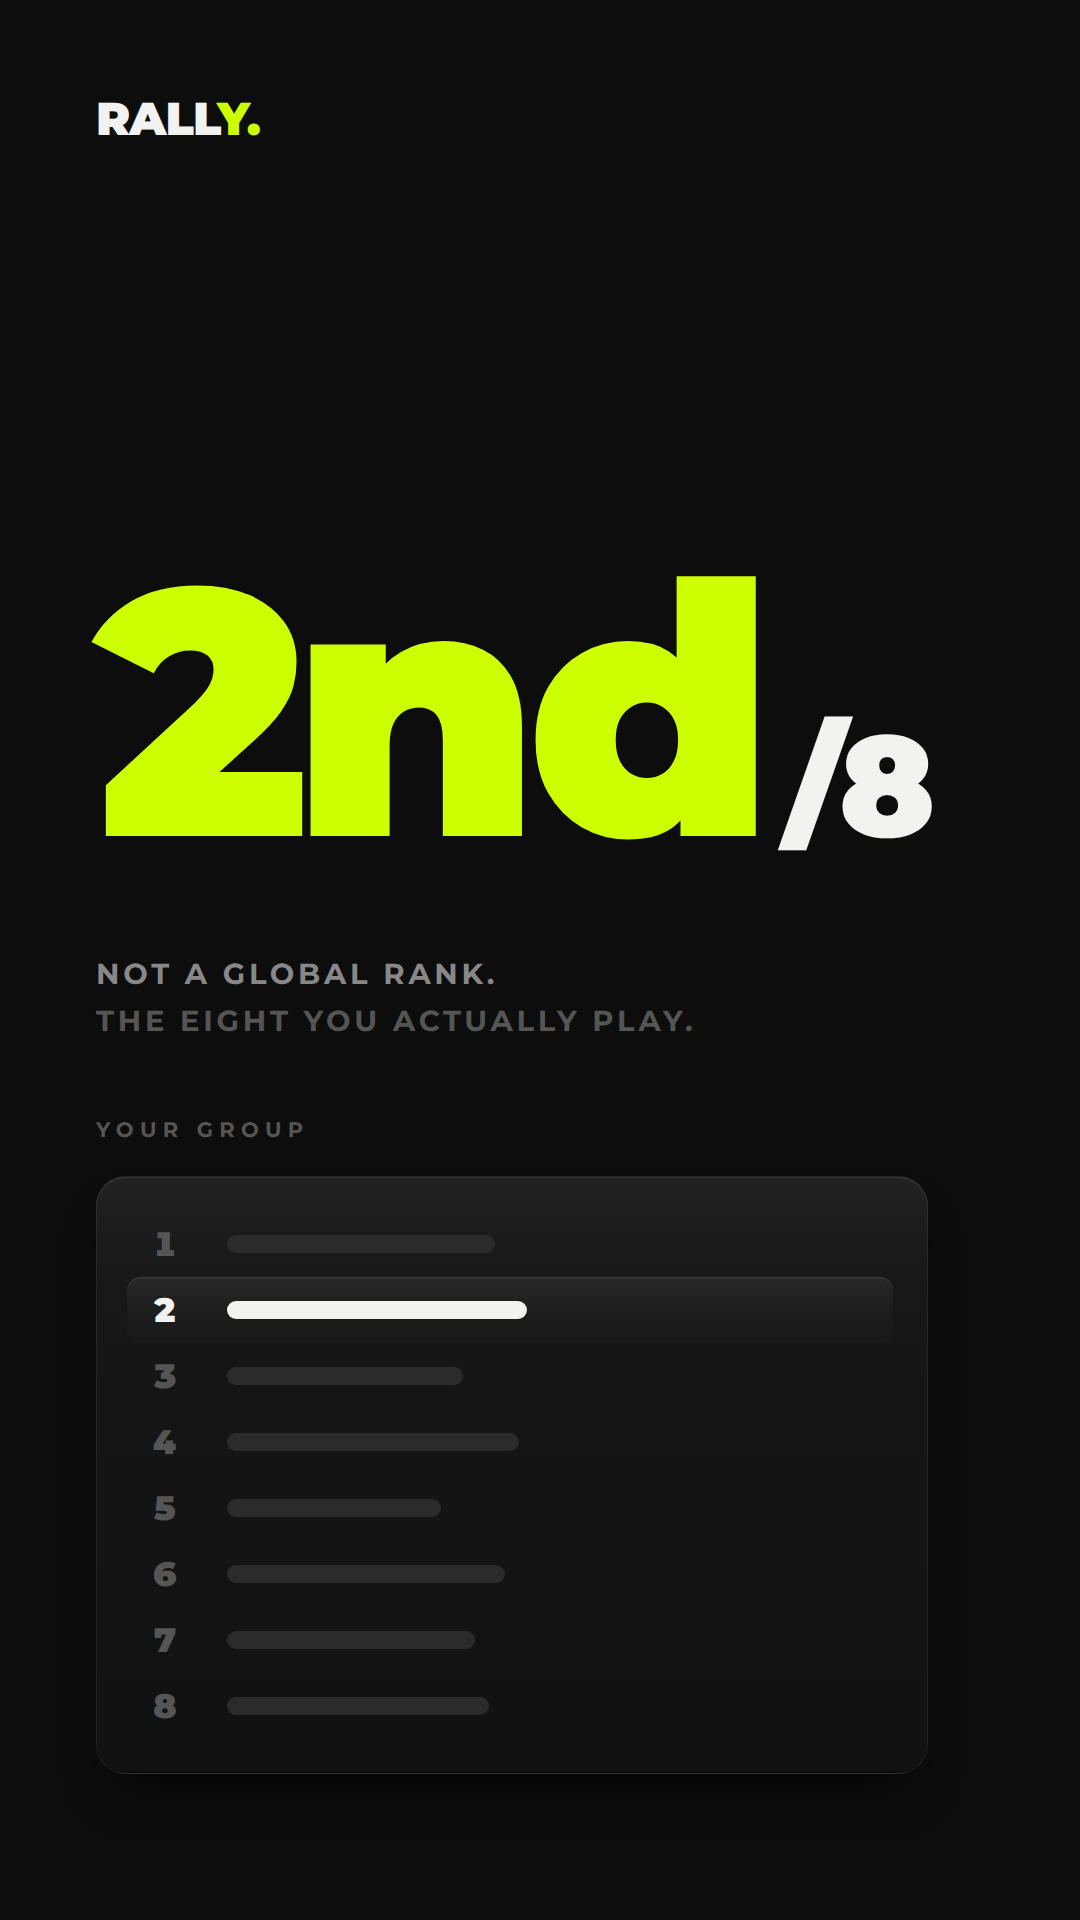
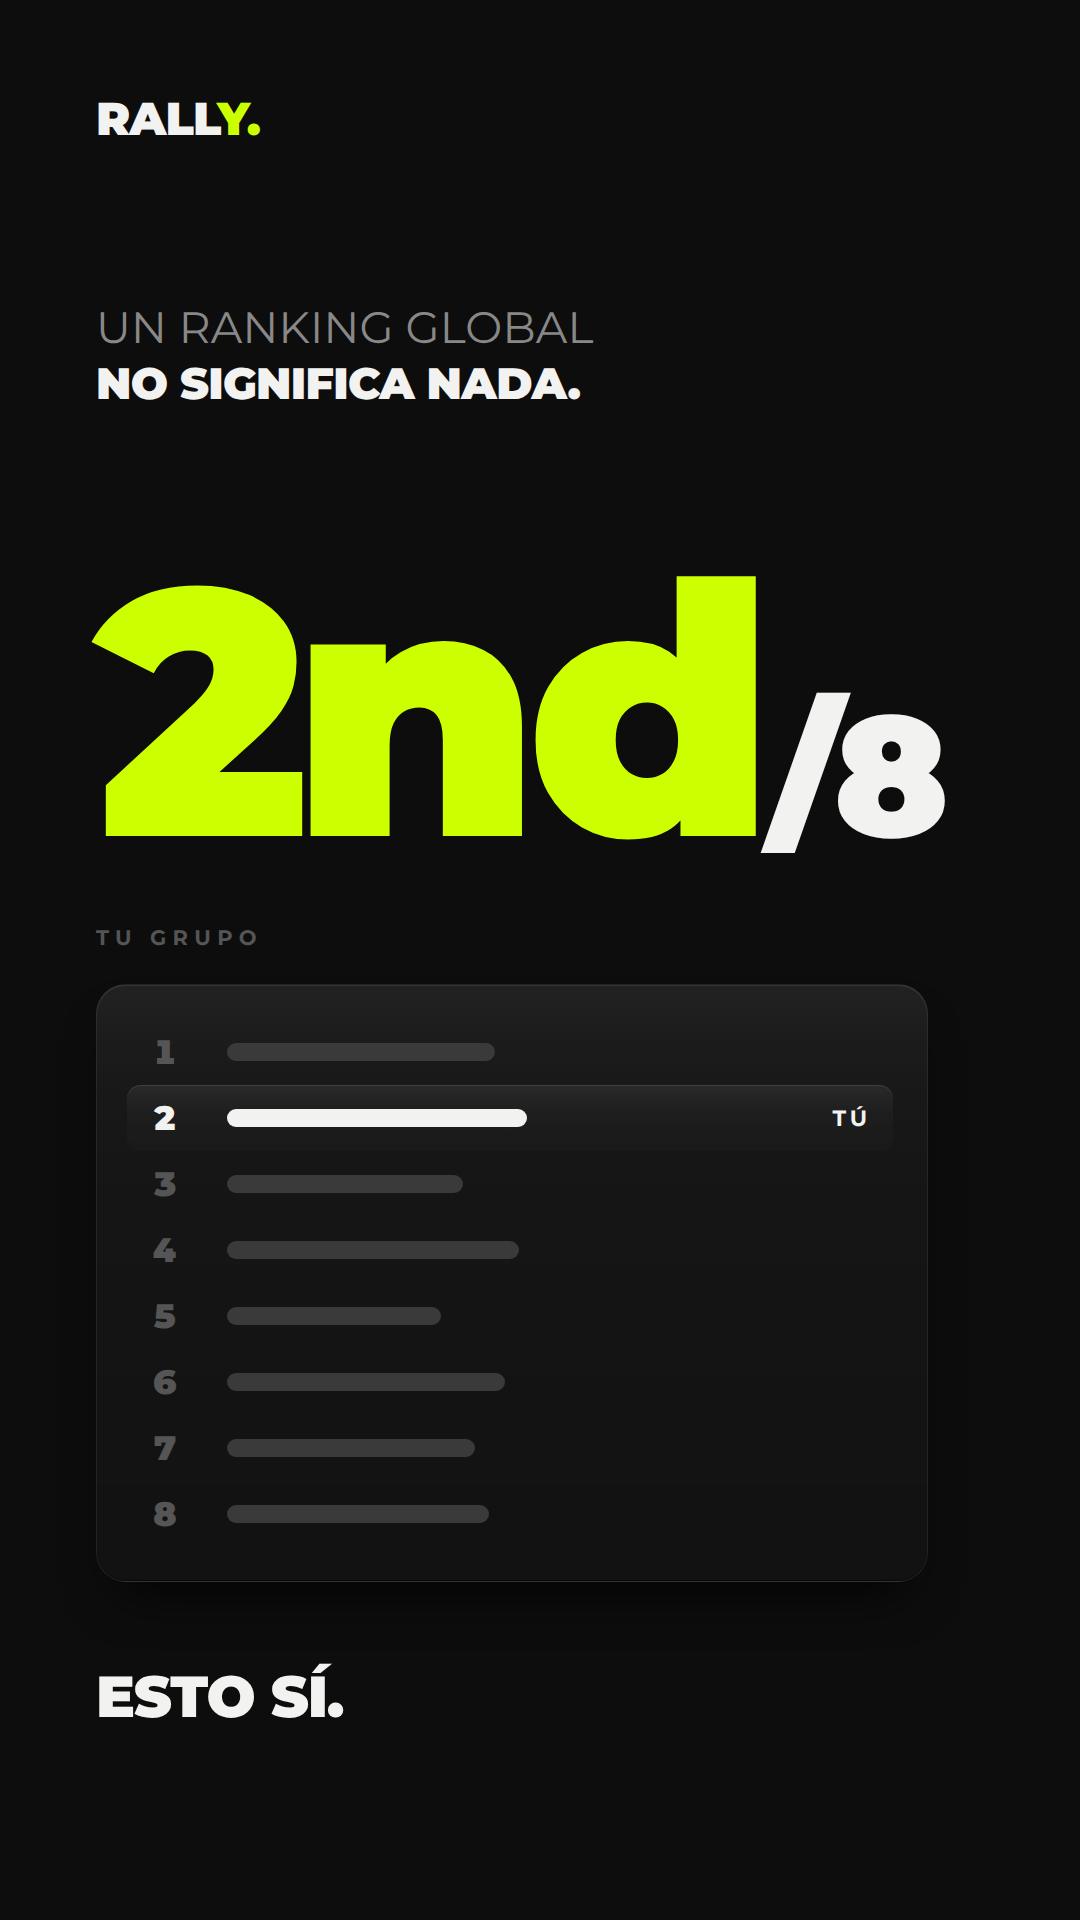
Switch the 2nd/8 post to Spanish, add the TU row tag
This post is a proof-lane receipt, and a Madrid leaderboard is Spanish by
nature, so the on-image copy moves to Spanish-primary neutral-tu. The
English kicker is replaced by a setup/payoff pair: "UN RANKING GLOBAL /
NO SIGNIFICA NADA." above, "ESTO SI." below, pointing down at the
standings. The player's row now carries a TU tag — a pronoun, never a
name, so the roster stays redacted.

No line names the redaction. The bars already say it, and captioning
them would narrate the image.

The hero lockup tightens: /8 rises to 170px against a 10px gap so it
reads as one object with 2nd rather than a trailing footnote, and the
redaction bars move to the ghost token so eight rows carry real presence
instead of dissolving into the surface.

The standings stay a single lit surface on the same left axis as
everything else, at 96px in and 152px off the right edge.

check.ts now takes an optional path argument, so any frame can be
audited against canon rather than only the canonical export.

Claude-Session: https://claude.ai/code/session_01X7Y3DB3JCqn8HjPJ8kvsD1

diff --git a/rally-social/src/rank-in-group.ts b/rally-social/src/rank-in-group.ts
@@ -38,6 +38,7 @@ function redactionRow(position: number, isPlayer: boolean, barWidth: number): st
     <li class="row${isPlayer ? ' row--player' : ''}">
       <span class="pos">${position}</span>
       <span class="bar" style="width:${barWidth}px"></span>
+      ${isPlayer ? `<span class="you">${COPY.youTag}</span>` : ''}
     </li>`;
 }
 
@@ -69,7 +70,7 @@ export function buildHtml({ fonts }: RenderInput): string {
 <head>
 <meta charset="utf-8">
 <style>
-  ${[TYPE.weights.bold, TYPE.weights.black].map(face).join('\n')}
+  ${[TYPE.weights.regular, TYPE.weights.bold, TYPE.weights.black].map(face).join('\n')}
 
   * { margin: 0; padding: 0; box-sizing: border-box; }
 
@@ -117,7 +118,7 @@ export function buildHtml({ fonts }: RenderInput): string {
     top: 560px;
     display: flex;
     align-items: baseline;
-    gap: 26px;
+    gap: 10px;
   }
   .hero-pos {
     font-weight: ${TYPE.weights.black};
@@ -128,30 +129,48 @@ export function buildHtml({ fonts }: RenderInput): string {
   }
   .hero-of {
     font-weight: ${TYPE.weights.black};
-    font-size: 142px;
+    font-size: 170px;
     line-height: 1;
     letter-spacing: -0.02em;
     color: ${COLOR.text};
   }
 
-  .kicker {
+  /* setup — sits under the wordmark, above the void */
+  .statement {
     position: absolute;
     left: ${LEFT}px;
-    top: 952px;
-    font-weight: ${TYPE.weights.bold};
-    font-size: 29px;
-    line-height: 1.62;
-    letter-spacing: 0.13em;
-    color: ${COLOR.muted};
+    top: 300px;
+    font-size: 44px;
+    line-height: 1.28;
+    color: ${COLOR.dim};
+    font-weight: ${TYPE.weights.regular};
+    letter-spacing: 0.005em;
   }
-  .kicker b { font-weight: ${TYPE.weights.bold}; color: ${COLOR.dim}; }
+  .statement b {
+    display: block;
+    font-weight: ${TYPE.weights.black};
+    letter-spacing: -0.015em;
+    color: ${COLOR.text};
+  }
+
+  /* payoff — points down at the standings */
+  .payoff {
+    position: absolute;
+    left: ${LEFT}px;
+    top: 1668px;
+    font-weight: ${TYPE.weights.black};
+    font-size: 58px;
+    line-height: 1;
+    letter-spacing: -0.02em;
+    color: ${COLOR.text};
+  }
 
   /* ───── the ground: group standings ───── */
 
   .eyebrow {
     position: absolute;
     left: ${LEFT}px;
-    top: 1120px;
+    top: 928px;
     font-weight: ${TYPE.weights.bold};
     font-size: 21px;
     line-height: 1;
@@ -162,7 +181,7 @@ export function buildHtml({ fonts }: RenderInput): string {
   .standings {
     position: absolute;
     left: ${LEFT}px;
-    top: 1176px;
+    top: 984px;
     width: ${FRAME.width - LEFT - CARD_RIGHT_GUTTER}px;
     padding: 34px 34px 34px 30px;
     border-radius: 30px;
@@ -186,6 +205,7 @@ export function buildHtml({ fonts }: RenderInput): string {
 
   .row {
     display: flex;
+    padding-right: 22px;
     align-items: center;
     height: 66px;
     padding-left: 26px;
@@ -208,7 +228,15 @@ export function buildHtml({ fonts }: RenderInput): string {
   .bar {
     height: 18px;
     border-radius: 9px;
-    background: ${COLOR.redaction};
+    background: ${COLOR.ghost};
+  }
+
+  .you {
+    margin-left: auto;
+    font-weight: ${TYPE.weights.bold};
+    font-size: 22px;
+    letter-spacing: 0.18em;
+    color: ${COLOR.text};
   }
 
   /* position 2 — the player. lit, not coloured. */
@@ -234,14 +262,14 @@ export function buildHtml({ fonts }: RenderInput): string {
       <span class="hero-of">${RANK_IN_GROUP.ofLabel}</span>
     </div>
 
-    <div class="kicker">
-      <b>${COPY.kicker[0]}</b><br>${COPY.kicker[1]}
-    </div>
+    <div class="statement">${COPY.statement[0]}<b>${COPY.statement[1]}</b></div>
 
     <div class="eyebrow">${COPY.groupEyebrow}</div>
 
     <ul class="standings">${rows}
     </ul>
+
+    <div class="payoff">${COPY.payoff}</div>
 
   </div>
 </body>

diff --git a/rally-social/canon.ts b/rally-social/canon.ts
@@ -102,9 +102,22 @@ export const ROSTER = {
 
 // ─────────────────────────── copy ───────────────────────────
 
+/**
+ * Spanish-primary, per the proof lane: this post is a receipt, and a Madrid
+ * leaderboard is Spanish by nature. Neutral-tú throughout — no vosotros, no
+ * ustedes. Statements close on the verified full stop.
+ *
+ * Deliberately absent: any line naming the redaction. The bars already say it,
+ * and captioning them would narrate the image.
+ */
 export const COPY = {
-  groupEyebrow: 'YOUR GROUP',
-  kicker: ['NOT A GLOBAL RANK.', 'THE EIGHT YOU ACTUALLY PLAY.'],
+  /** setup, top of frame — line 1 recedes, line 2 lands */
+  statement: ['UN RANKING GLOBAL', 'NO SIGNIFICA NADA.'],
+  groupEyebrow: 'TU GRUPO',
+  /** row tag at the player's position — a pronoun, never a name */
+  youTag: 'TÚ',
+  /** payoff, pointing down at the standings */
+  payoff: 'ESTO SÍ.',
 } as const;
 
 // ─────────────────────────── acid budget ───────────────────────────

diff --git a/rally-social/src/check.ts b/rally-social/src/check.ts
@@ -18,7 +18,10 @@ import { ACID_REGIONS, COLOR, FORBIDDEN_COLORS, FRAME } from '../canon.ts';
 
 const here = dirname(fileURLToPath(import.meta.url));
 const repoRoot = resolve(here, '../..');
-const TARGET = resolve(repoRoot, 'out/social/rally-2nd-of-8-1080x1920.png');
+/** Defaults to the canonical export; pass a path to audit any other frame. */
+const TARGET = process.argv[2]
+  ? resolve(process.cwd(), process.argv[2])
+  : resolve(repoRoot, 'out/social/rally-2nd-of-8-1080x1920.png');
 
 interface Report {
   width: number;

diff --git a/rally-social/src/render.ts b/rally-social/src/render.ts
@@ -45,7 +45,7 @@ async function main() {
   await page.evaluate(() => (document as any).fonts.ready);
 
   const measured: Measured[] = await page.evaluate(() => {
-    const sel = '.wordmark, .hero-pos, .hero-of, .kicker, .eyebrow, .standings';
+    const sel = '.wordmark, .statement, .hero-pos, .hero-of, .eyebrow, .standings, .payoff';
     return [...document.querySelectorAll(sel)].map((el) => {
       const r = el.getBoundingClientRect();
       return {
